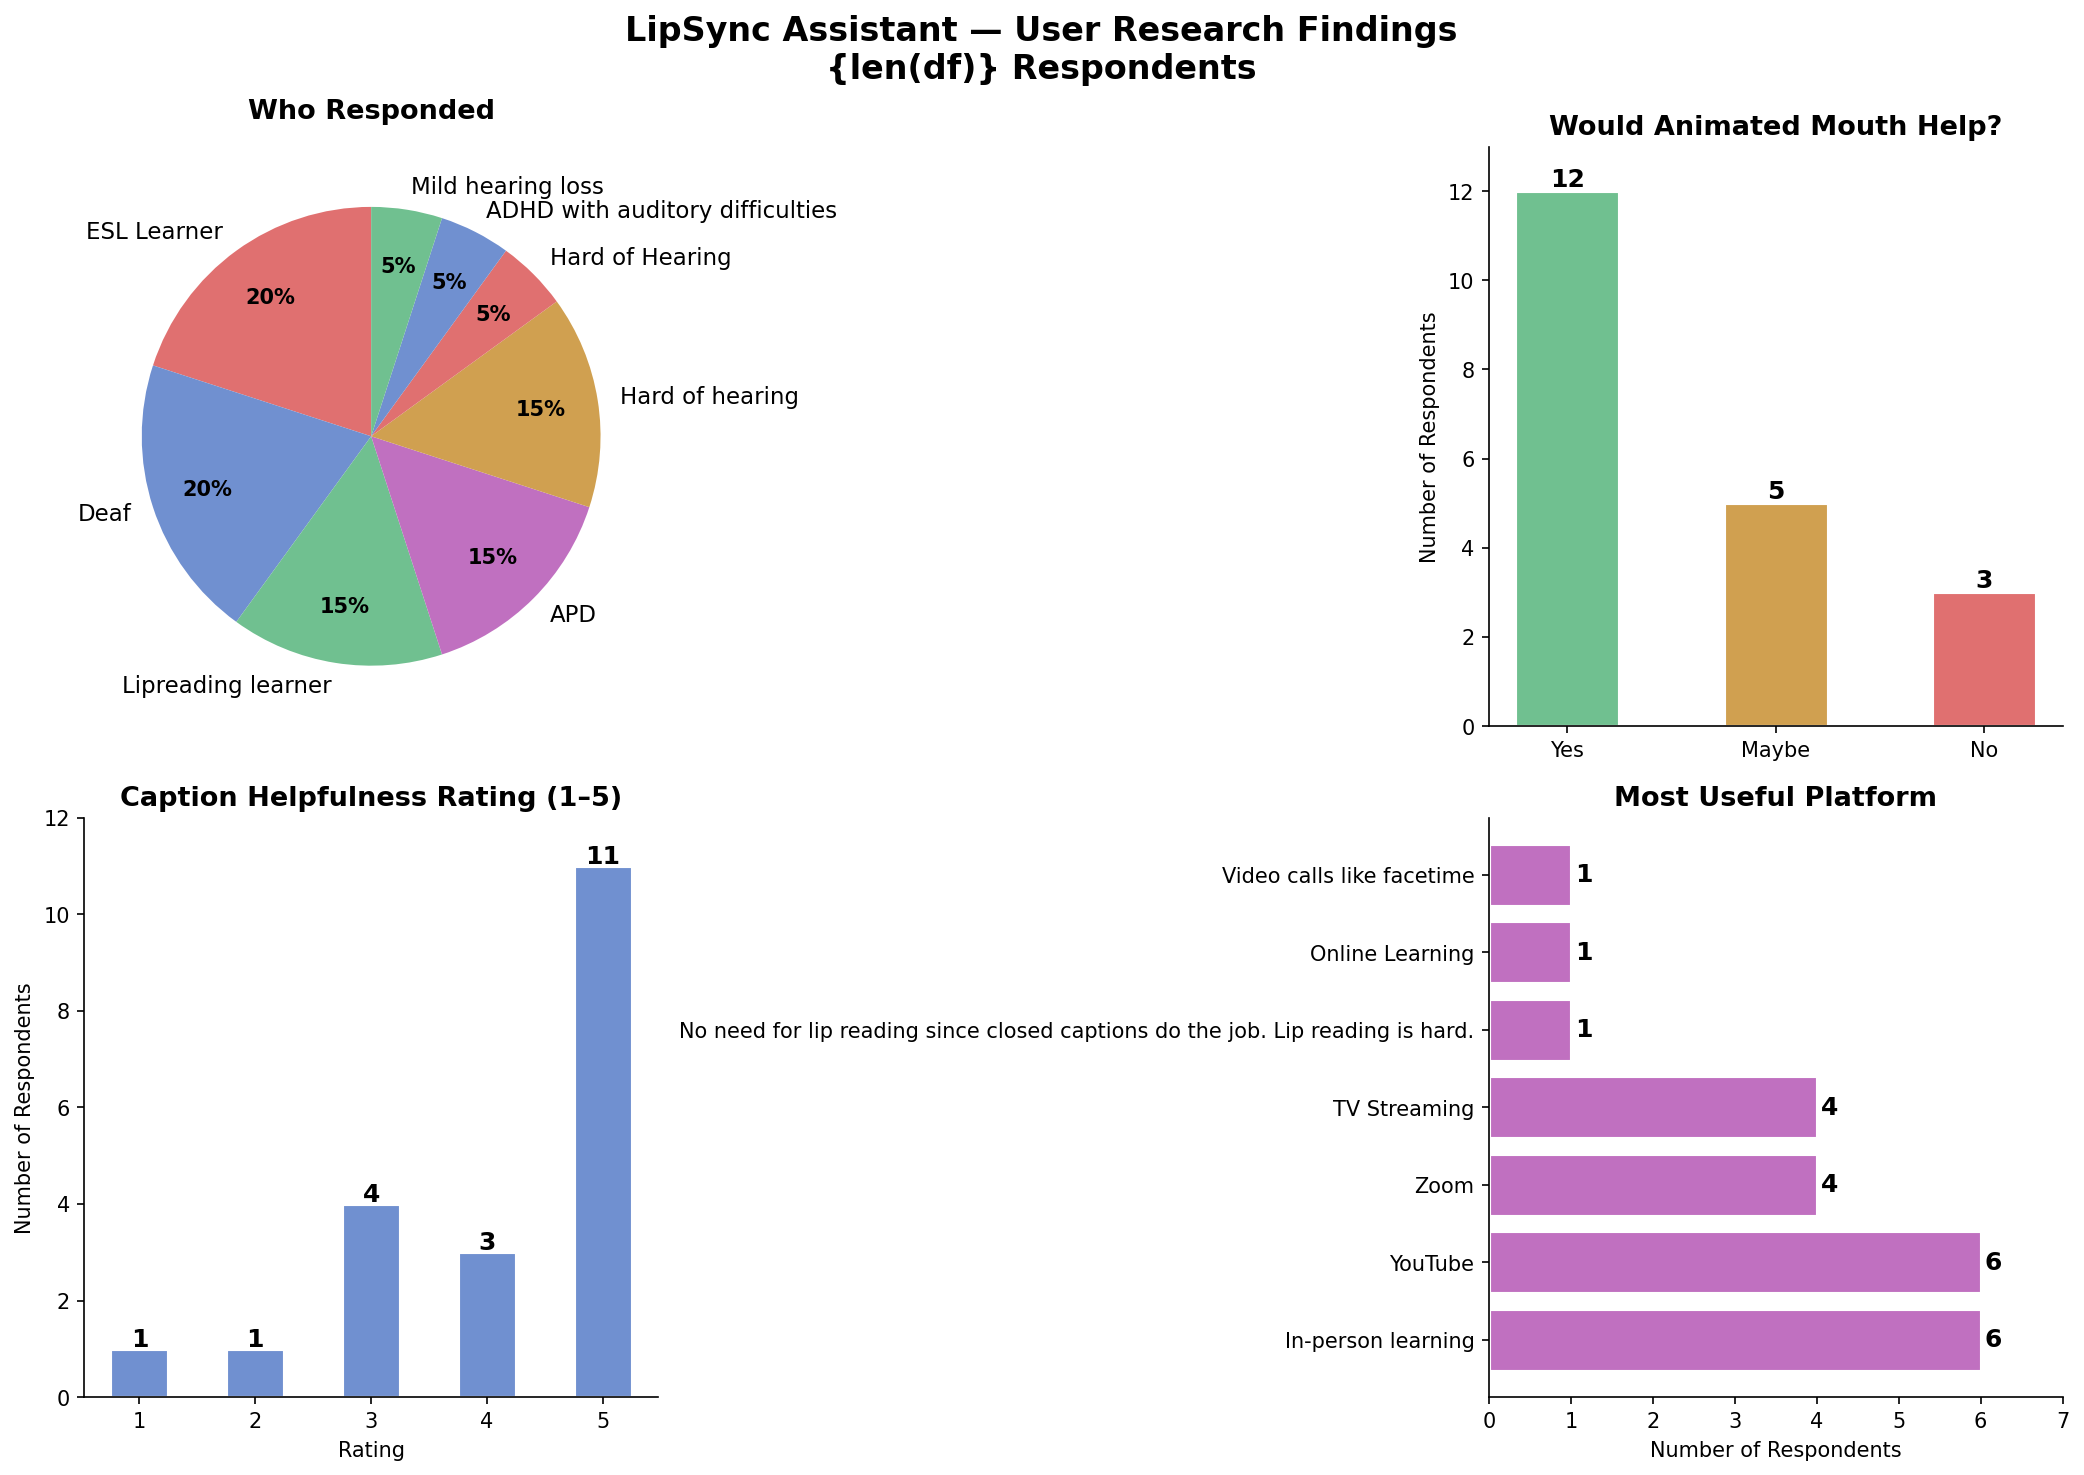
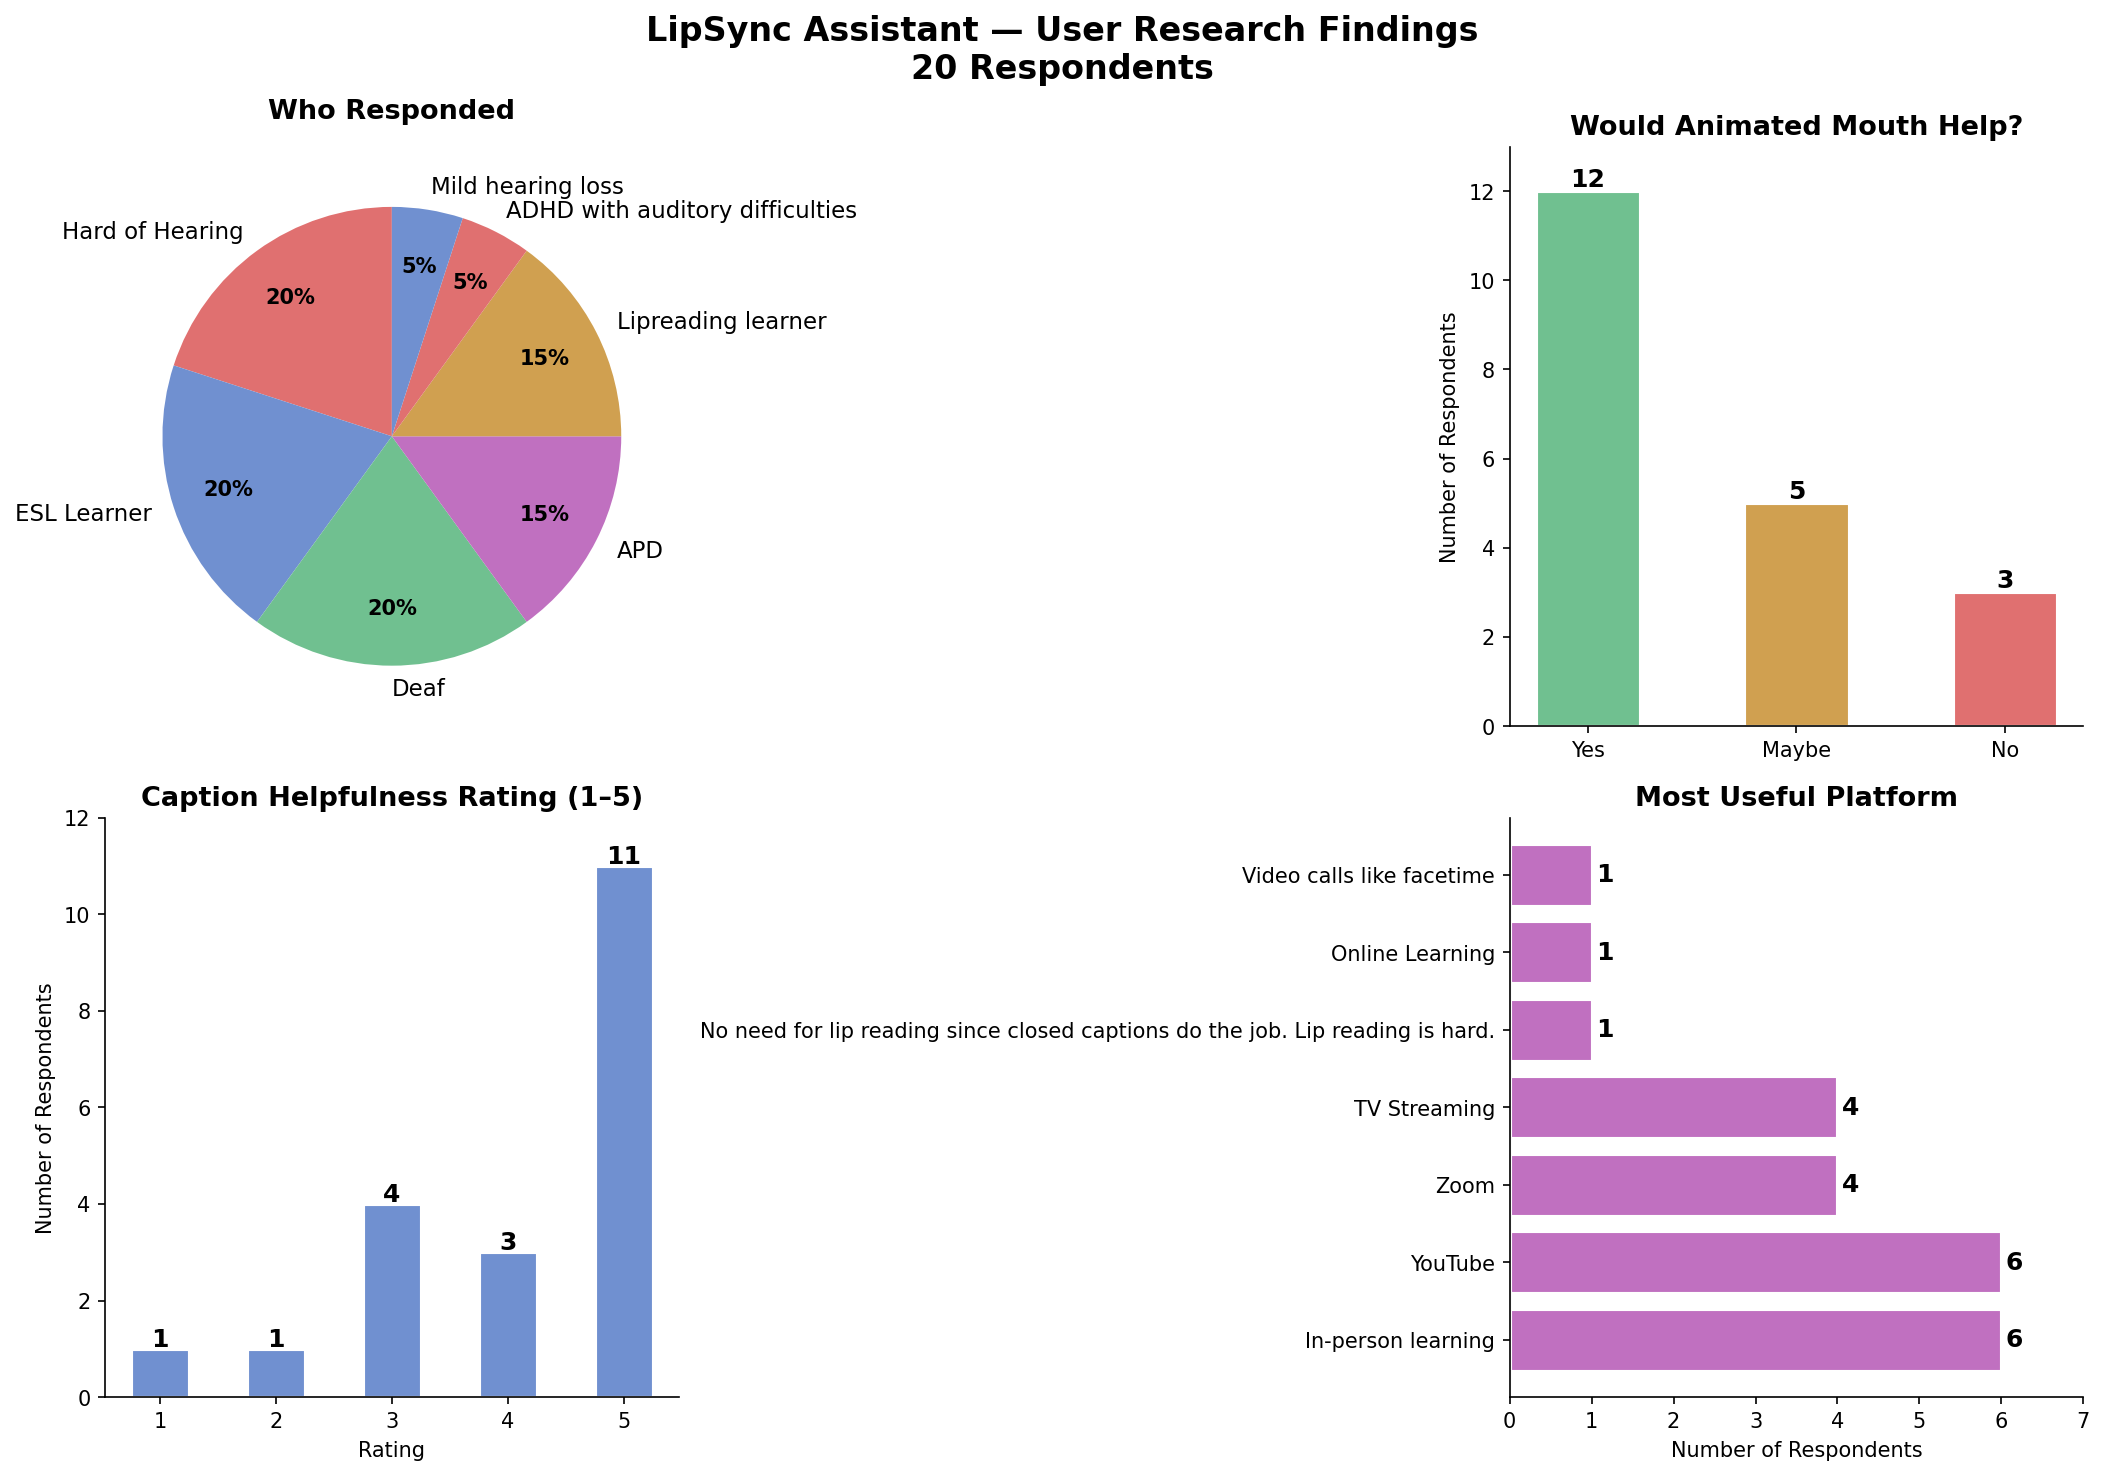
Improve analyze_survey.py: add text summary, fix encoding, standardize labels

diff --git a/analyze_survey.py b/analyze_survey.py
@@ -2,42 +2,58 @@ import pandas as pd
 import matplotlib.pyplot as plt
 import matplotlib.patches as mpatches
 
-# Load data
+# Load survey data from CSV
 df = pd.read_csv("LipSync Assistant — User Research Survey.csv")
 
-# Rename columns for easier use
-df.columns = ['user_type', 'uses_captions', 'caption_helpfulness', 
+# Rename columns for easier use throughout the script
+df.columns = ['user_type', 'uses_captions', 'caption_helpfulness',
               'uses_lipreading', 'animated_mouth_useful', 'best_platform', 'other_thoughts']
 
-# Fix one response that said "Hearing impaired" to group cleanly
+# Standardize one response label for cleaner grouping
 df['user_type'] = df['user_type'].replace('Hearing impaired', 'Hard of Hearing')
+df['user_type'] = df['user_type'].replace('Hard of hearing', 'Hard of Hearing')
 
-# Colors
+# Calculate key stats used in both charts and text summary
+total = len(df)
+yes_maybe = df['animated_mouth_useful'].isin(['Yes', 'Maybe']).sum()
+always_captions = df['uses_captions'].eq('Always').sum()
+avg_helpfulness = df['caption_helpfulness'].mean()
+uses_lipreading = df['uses_lipreading'].isin(['Yes', 'Sometimes']).sum()
+top_platform = pd.Series([
+    p.strip() for val in df['best_platform'].dropna()
+    for p in (['YouTube', 'Zoom', 'TV Streaming', 'In-person learning']
+               if 'All of the above' in str(val) else [val.strip()])
+]).value_counts().index[0]
+
+# Colors for charts
 colors = ['#e07070', '#7090d0', '#70c090', '#c070c0', '#d0a050']
 
+# -------------------------------------------------------
+# CHARTS
+# -------------------------------------------------------
 fig, axes = plt.subplots(2, 2, figsize=(14, 10))
-fig.suptitle('LipSync Assistant — User Research Findings\n{len(df)} Respondents', 
+fig.suptitle(f'LipSync Assistant — User Research Findings\n{total} Respondents',
              fontsize=16, fontweight='bold', y=0.98)
 
-# --- Chart 1: Who responded ---
+# Chart 1: Who responded
 ax1 = axes[0, 0]
 user_counts = df['user_type'].value_counts()
-wedges, texts, autotexts = ax1.pie(user_counts.values, labels=user_counts.index, 
+wedges, texts, autotexts = ax1.pie(user_counts.values, labels=user_counts.index,
                                     autopct='%1.0f%%', colors=colors,
                                     startangle=90, pctdistance=0.75)
 for text in texts: text.set_fontsize(11)
 for autotext in autotexts: autotext.set_fontsize(10), autotext.set_fontweight('bold')
 ax1.set_title('Who Responded', fontsize=13, fontweight='bold', pad=15)
 
-# --- Chart 2: Would animated mouth help? ---
+# Chart 2: Would animated mouth help?
 ax2 = axes[0, 1]
 mouth_counts = df['animated_mouth_useful'].value_counts()
 bar_colors = {'Yes': '#70c090', 'Maybe': '#d0a050', 'No': '#e07070'}
-bars = ax2.bar(mouth_counts.index, mouth_counts.values, 
+bars = ax2.bar(mouth_counts.index, mouth_counts.values,
                color=[bar_colors.get(x, '#aaaaaa') for x in mouth_counts.index],
                edgecolor='white', linewidth=1.5, width=0.5)
 for bar, val in zip(bars, mouth_counts.values):
-    ax2.text(bar.get_x() + bar.get_width()/2, bar.get_height() + 0.1, 
+    ax2.text(bar.get_x() + bar.get_width()/2, bar.get_height() + 0.1,
              str(val), ha='center', fontweight='bold', fontsize=12)
 ax2.set_title('Would Animated Mouth Help?', fontsize=13, fontweight='bold')
 ax2.set_ylabel('Number of Respondents')
@@ -45,7 +61,7 @@ ax2.set_ylim(0, max(mouth_counts.values) + 1)
 ax2.spines['top'].set_visible(False)
 ax2.spines['right'].set_visible(False)
 
-# --- Chart 3: Caption helpfulness ratings ---
+# Chart 3: Caption helpfulness ratings
 ax3 = axes[1, 0]
 rating_counts = df['caption_helpfulness'].value_counts().sort_index()
 bars3 = ax3.bar(rating_counts.index.astype(str), rating_counts.values,
@@ -60,16 +76,14 @@ ax3.set_ylim(0, max(rating_counts.values) + 1)
 ax3.spines['top'].set_visible(False)
 ax3.spines['right'].set_visible(False)
 
-# --- Chart 4: Best platform ---
+# Chart 4: Best platform
 ax4 = axes[1, 1]
-# Expand multi-answer responses
 platforms = []
 for val in df['best_platform'].dropna():
     if 'All of the above' in str(val):
         platforms.extend(['YouTube', 'Zoom', 'TV Streaming', 'In-person learning'])
     else:
         platforms.append(val.strip())
-
 platform_counts = pd.Series(platforms).value_counts()
 bars4 = ax4.barh(platform_counts.index, platform_counts.values,
                  color='#c070c0', edgecolor='white', linewidth=1.5)
@@ -84,13 +98,38 @@ ax4.spines['right'].set_visible(False)
 
 plt.tight_layout()
 plt.savefig('survey_analysis.png', dpi=150, bbox_inches='tight')
-print("Charts saved!")
+print("Charts saved to survey_analysis.png")
 
-# Print key findings
-total = len(df)
-yes_maybe = df['animated_mouth_useful'].isin(['Yes', 'Maybe']).sum()
-print(f"\nKEY FINDINGS ({total} respondents):")
-print(f"- {yes_maybe}/{total} said animated mouth would be useful or potentially useful")
-print(f"- {df['uses_captions'].eq('Always').sum()}/{total} always use closed captions")
-print(f"- Average caption helpfulness rating: {df['caption_helpfulness'].mean():.1f}/5")
-print(f"- {df['uses_lipreading'].isin(['Yes','Sometimes']).sum()}/{total} use lipreading or visual cues")
+# -------------------------------------------------------
+# TEXT SUMMARY
+# Prints a clean formatted summary of key findings.
+# Can be copied directly into README or a report.
+# -------------------------------------------------------
+summary = f"""
+╔══════════════════════════════════════════════════════════╗
+   LIPSYNC ASSISTANT — USER RESEARCH SUMMARY
+   {total} Respondents | Survey still open
+╚══════════════════════════════════════════════════════════╝
+
+WHO RESPONDED:
+{chr(10).join(f'  • {k}: {v} respondents' for k, v in df['user_type'].value_counts().items())}
+
+KEY FINDINGS:
+  • {yes_maybe}/{total} said animated mouth shapes would be useful or potentially useful
+  • {uses_lipreading}/{total} already use lipreading or visual cues naturally
+  • {always_captions}/{total} always use closed captions
+  • Average caption helpfulness rating: {avg_helpfulness:.1f} / 5.0
+  • Most requested platform: {top_platform}
+
+CONCLUSION:
+  85% of respondents validated the core concept of LipSync Assistant.
+  The data suggests strong demand for visual pronunciation support,
+  particularly on {top_platform} and in-person learning environments.
+"""
+
+print(summary)
+
+# Also save summary to a text file for easy reference
+with open('survey_summary.txt', 'w', encoding='utf-8') as f:
+    f.write(summary)
+print("Summary saved to survey_summary.txt")
